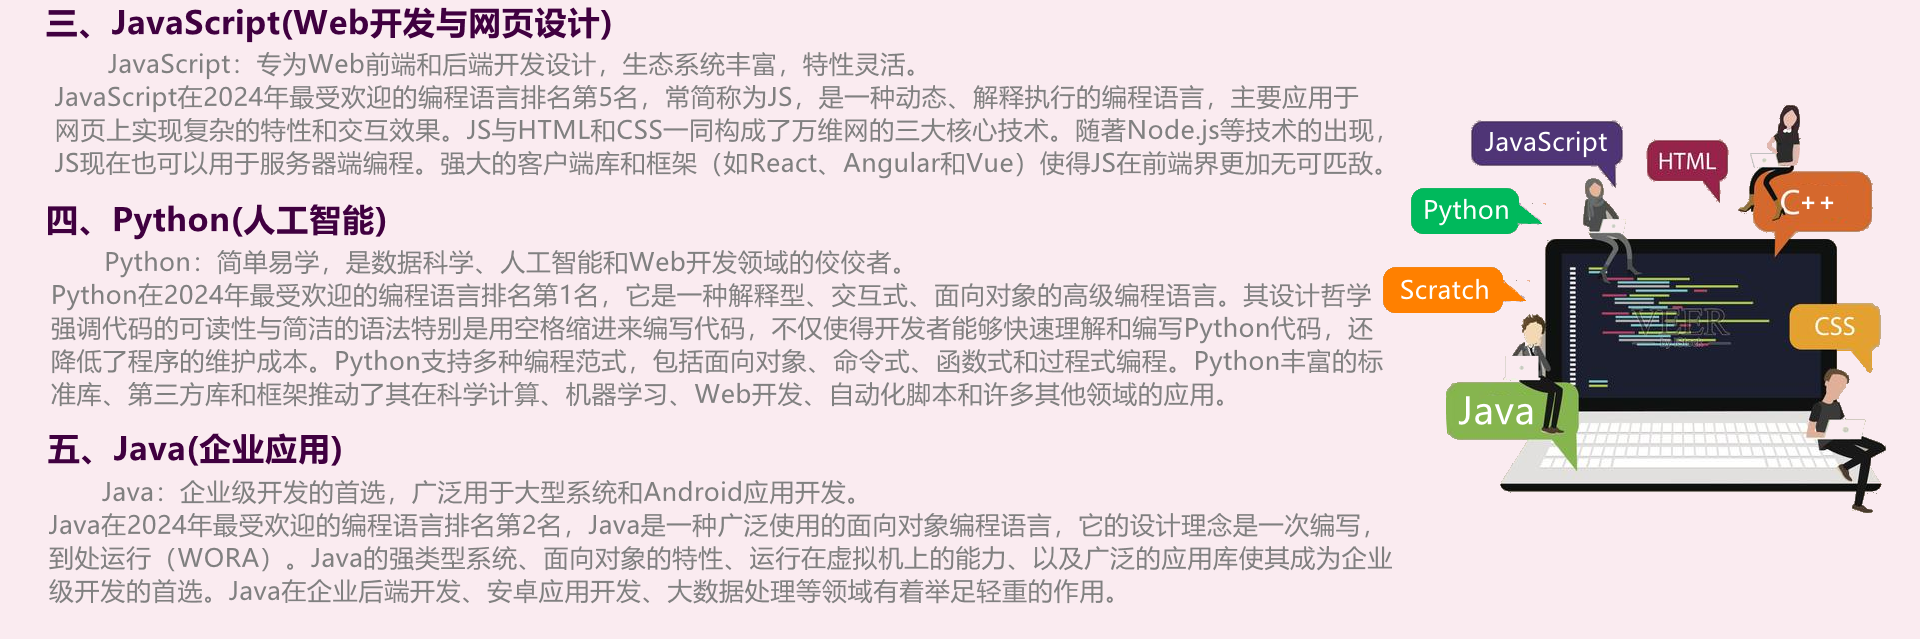
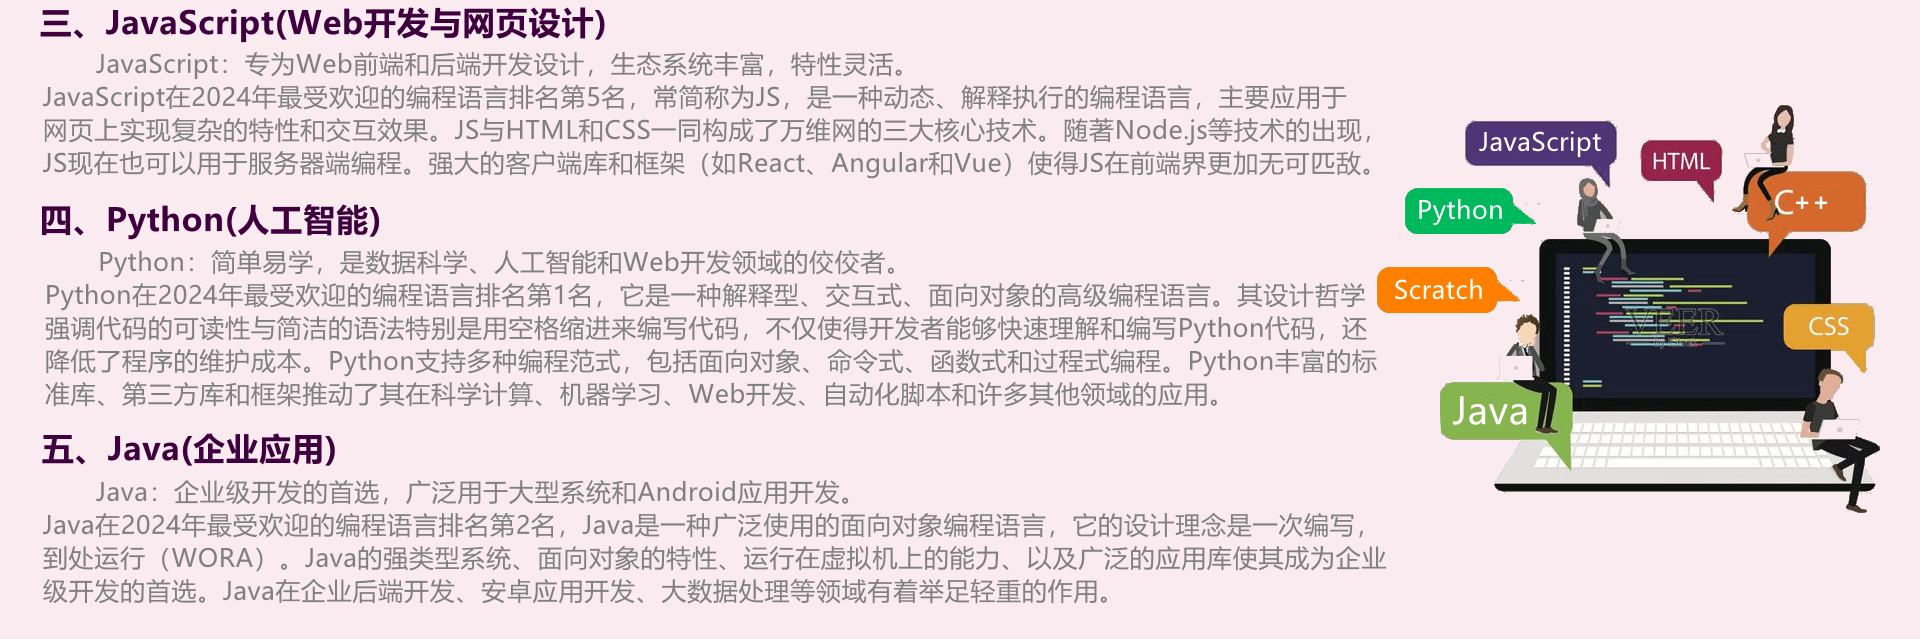
主页Banner素材瘦身提速；

Changed region(s): [[0.0, 0.0, 1.0, 0.8028], [0.0, 0.6839, 0.7188, 0.9515]]

diff --git a/index.html b/index.html
@@ -127,7 +127,7 @@
 		<!-- End Header -->
 		
 	<!-- Start Main Banner -->
-	<section class="blog-banner" style="background-image: url(./images/slogan/banner11.1920x1050.png);">
+	<section class="blog-banner" style="background-image: url(./images/slogan/banner11.1920x700.png);">
 		<div class="container">
 			<div class="row">
 				<div class="col-xl-12 text-center z-1 position-relative wow fadeInUp">
@@ -148,29 +148,29 @@
 	</section>
 	<section class="blog-banner" style="background-image: url(./images/slogan/banner14.1920x660.png);">
 	</section>
-	<section class="blog-banner" style="background-image: url(./images/slogan/banner15.1920x720.png);">
+	<section class="blog-banner" style="background-image: url(./images/slogan/banner15.1920x600.png);">
 	</section>
 
-	<section class="blog-banner" style="background-image: url(./images/slogan/banner21.1920x1024.png);">
+	<section class="blog-banner" style="background-image: url(./images/slogan/banner21.1920x700.png);">
 	</section>
-	<section class="blog-banner" style="background-image: url(./images/slogan/banner22.1920x778.png);">
+	<section class="blog-banner" style="background-image: url(./images/slogan/banner22.1920x500.png);">
 	</section>
 	<section class="blog-banner" style="background-image: url(./images/slogan/banner23.1920x500.png);">
 	</section>
-	<section class="blog-banner" style="background-image: url(./images/slogan/banner24.1920x859.png);">
+	<section class="blog-banner" style="background-image: url(./images/slogan/banner24.1920x600.png);">
 	</section>
-	<section class="blog-banner" style="background-image: url(./images/slogan/banner25.1920x880.png);">
+	<section class="blog-banner" style="background-image: url(./images/slogan/banner25.1920x600.png);">
 	</section>
 
-	<section class="blog-banner" style="background-image: url(./images/slogan/banner30.1920x646.png);">
+	<section class="blog-banner" style="background-image: url(./images/slogan/banner30.1920x500.png);">
 	</section>
-	<section class="blog-banner" style="background-image: url(./images/slogan/banner31.1920x710.png);">
+	<section class="blog-banner" style="background-image: url(./images/slogan/banner31.1920x600.png);">
 	</section>
-	<section class="blog-banner" style="background-image: url(./images/slogan/banner32.1920x960.png);">
+	<section class="blog-banner" style="background-image: url(./images/slogan/banner32.1920x600.png);">
 	</section>
-	<section class="blog-banner" style="background-image: url(./images/slogan/banner33.1920x801.png);">
+	<section class="blog-banner" style="background-image: url(./images/slogan/banner33.1920x600.png);">
 	</section>
-	<section class="blog-banner" style="background-image: url(./images/slogan/banner34.1920x860.png);">
+	<section class="blog-banner" style="background-image: url(./images/slogan/banner34.1920x800.png);">
 		<div class="container">
 			<div class="row">
 				<div class="col-xl-12 text-center z-1 position-relative wow fadeInUp">
